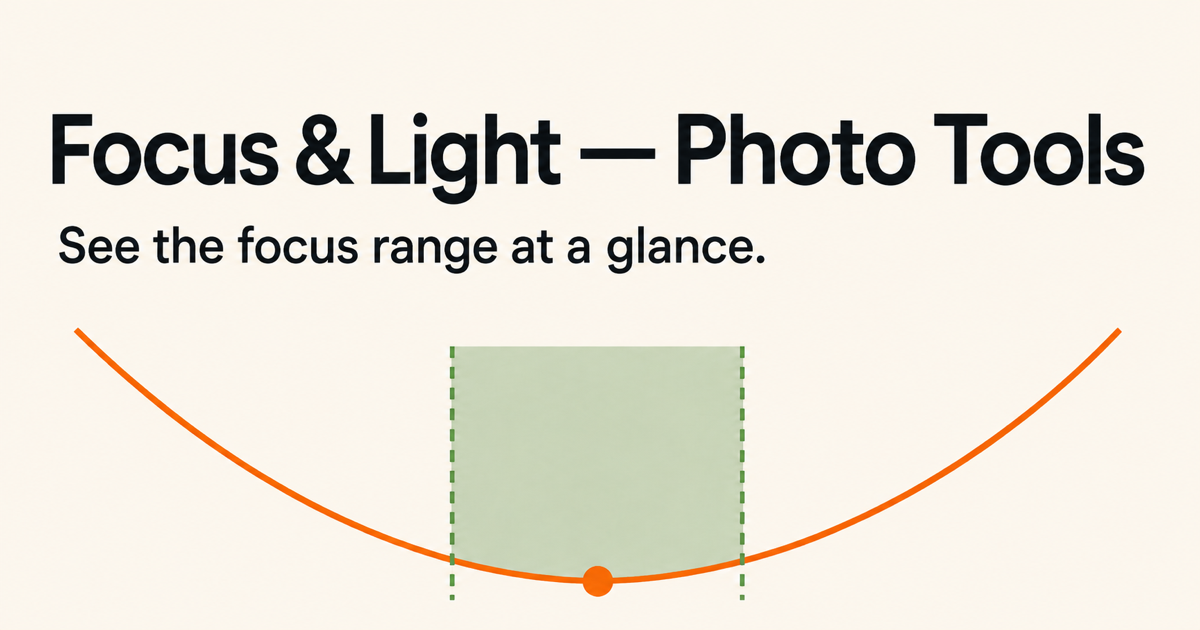
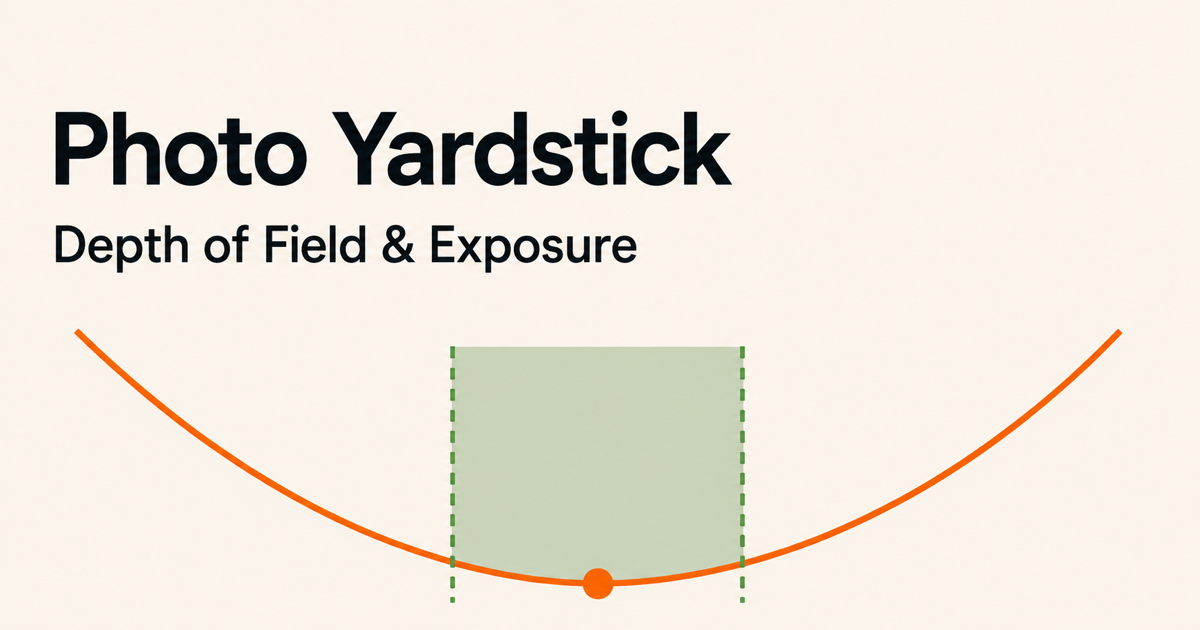
撮影のものさしの日英サイト名称と共有画像を反映

diff --git a/components/focus-map-story.tsx b/components/focus-map-story.tsx
@@ -42,7 +42,7 @@ const content = {
     originLabel: 'このアプリを作った理由',
     originTitle: '計算を終えて、写真に集中したかった。',
     originBody:
-      'ピント位置と絞りを先に決めておけば、撮影中に考えることを減らせます。ただ、そのたびに被写界深度を手計算するのは面倒でした。そこで、iPhoneですぐに範囲を確認できる、自分でも使いたい道具として「ピントと光 — 撮影計算」を作り始めました。',
+      'ピント位置と絞りを先に決めておけば、撮影中に考えることを減らせます。ただ、そのたびに被写界深度を手計算するのは面倒でした。そこで、iPhoneですぐに範囲を確認できる、自分でも使いたい道具として「撮影のものさし」を作り始めました。',
     sceneLabel: 'こんなときに',
     sceneTitle: '計算結果を見ながら、機材ごとの距離感をつかむ。',
     scenes: [
@@ -99,7 +99,7 @@ const content = {
     eyebrow: 'iPhone · iOS 17 or later · Preparing for release',
     title:
       'Spend less time calculating focus and more time taking photographs.',
-    lead: 'Choose a focus distance and aperture to see how much of the scene should appear acceptably sharp. Focus & Light — Photo Tools is designed for quick checks before shooting with manual-focus cameras and lenses.',
+    lead: 'Choose a focus distance and aperture to see how much of the scene should appear acceptably sharp. Photo Yardstick is designed for quick checks before shooting with manual-focus cameras and lenses.',
     state: 'Preparing for the App Store',
     privacy: 'Privacy',
     support: 'Support',
@@ -108,7 +108,7 @@ const content = {
     originTitle:
       'I wanted to finish the calculation and return to the photograph.',
     originBody:
-      'Setting focus and aperture in advance can remove decisions while shooting, but calculating depth of field each time was slow. I began Focus & Light — Photo Tools as a tool I wanted for myself: a quick way to check the range on an iPhone.',
+      'Setting focus and aperture in advance can remove decisions while shooting, but calculating depth of field each time was slow. I began Photo Yardstick as a tool I wanted for myself: a quick way to check the range on an iPhone.',
     sceneLabel: 'Useful moments',
     sceneTitle: 'Build a feel for focus distance with each camera and lens.',
     scenes: [
@@ -151,8 +151,7 @@ const content = {
       'Japanese and English',
     ],
     releaseLabel: 'Release status',
-    releaseTitle:
-      'Focus & Light — Photo Tools is still being prepared for the App Store.',
+    releaseTitle: 'Photo Yardstick is still being prepared for the App Store.',
     releaseBody:
       'Automated calculation and interface tests and build checks are in progress. Physical-device checks, including hands-on use and VoiceOver, remain separate, so this page does not present the app as already released.',
     limitsLabel: 'About the results',
@@ -200,6 +199,7 @@ export function FocusMapStory({ locale }: { locale: Locale }) {
             <div>
               <p>{text.eyebrow}</p>
               <strong>{featuredApp.name[locale]}</strong>
+              <p>{featuredApp.subtitle[locale]}</p>
             </div>
           </div>
           <h1>{text.title}</h1>
@@ -224,8 +224,8 @@ export function FocusMapStory({ locale }: { locale: Locale }) {
                 src={sitePath(`${featuredApp.imageDirectory}/${mainScreen}`)}
                 alt={
                   isEnglish
-                    ? 'Focus & Light — Photo Tools showing an acceptable focus range and blur curve'
-                    : '「ピントと光 — 撮影計算」で、合って見える範囲とぼけの曲線を表示している画面'
+                    ? 'Photo Yardstick showing an acceptable focus range and blur curve'
+                    : '「撮影のものさし」で、合って見える範囲とぼけの曲線を表示している画面'
                 }
                 width="1320"
                 height="2868"

diff --git a/components/info-page.tsx b/components/info-page.tsx
@@ -15,10 +15,10 @@ type InfoKind = 'privacy' | 'support';
 const info = {
   ja: {
     privacy: {
-      label: 'ピントと光 — 撮影計算のプライバシー',
+      label: '撮影のものさしのプライバシー',
       title: 'アプリがデータを勝手に送ることはありません。',
       intro:
-        '「ピントと光 — 撮影計算」本体は、個人情報、位置情報、写真、連絡先、識別子、利用状況、診断情報を収集しません。',
+        '「撮影のものさし」本体は、個人情報、位置情報、写真、連絡先、識別子、利用状況、診断情報を収集しません。',
       sections: [
         [
           'アプリからの通信',
@@ -56,10 +56,10 @@ const info = {
       date: '適用日: 初回リリース日',
     },
     support: {
-      label: 'ピントと光 — 撮影計算のサポート',
+      label: '撮影のものさしのサポート',
       title: '計算結果の見方と、できないこと。',
       intro:
-        '「ピントと光 — 撮影計算」の数値は、撮影前の判断を助けるための目安です。結果に影響する前提と、現在の計算に含まれないものをまとめています。',
+        '「撮影のものさし」の数値は、撮影前の判断を助けるための目安です。結果に影響する前提と、現在の計算に含まれないものをまとめています。',
       sections: [
         [
           'ピントが合って見える範囲',
@@ -82,10 +82,10 @@ const info = {
   },
   en: {
     privacy: {
-      label: 'Focus & Light — Photo Tools privacy',
+      label: 'Photo Yardstick privacy',
       title: 'The app does not send your data anywhere automatically.',
       intro:
-        'Focus & Light — Photo Tools does not collect personal information, location, photos, contacts, identifiers, usage data, or diagnostics.',
+        'Photo Yardstick does not collect personal information, location, photos, contacts, identifiers, usage data, or diagnostics.',
       sections: [
         [
           'Communication from the app',
@@ -123,10 +123,10 @@ const info = {
       date: 'Effective date: initial release date',
     },
     support: {
-      label: 'Focus & Light — Photo Tools support',
+      label: 'Photo Yardstick support',
       title: 'How to read the results, and what they do not cover.',
       intro:
-        'Focus & Light — Photo Tools results are guides for decisions before a photograph. This page summarizes the assumptions that affect the numbers and what is outside the current model.',
+        'Photo Yardstick results are guides for decisions before a photograph. This page summarizes the assumptions that affect the numbers and what is outside the current model.',
       sections: [
         [
           'The range that appears acceptably sharp',

diff --git a/components/feedback-page.tsx b/components/feedback-page.tsx
@@ -20,7 +20,7 @@ import {
 
 const content = {
   ja: {
-    label: 'ピントと光 — 撮影計算へのフィードバック',
+    label: '撮影のものさしへのフィードバック',
     title: (
       <>
         <span className="feedback-title-line">気づいたことを、</span>
@@ -29,7 +29,7 @@ const content = {
     ),
     intro:
       'この入口でアプリと表示言語は確定しています。アプリ名、言語、種類、端末、OSを選び直す必要はありません。',
-    back: 'ピントと光 — 撮影計算へ',
+    back: '撮影のものさしへ',
     safetyLabel: '送信前に',
     safetyTitle: '匿名で送れます。通常、個別の返信は行いません。',
     points: [
@@ -43,11 +43,11 @@ const content = {
       'Googleフォームを使用し、氏名やメールアドレスは収集しません。削除の依頼などプライバシーに関する連絡は、別のお問い合わせ窓口で扱います。匿名回答を確実に特定できない場合があります。AIによる整理を行う場合は、説明を更新し、必要な同意を得た範囲で行います。過去の回答を自動で流用しません。',
   },
   en: {
-    label: 'Feedback for Focus & Light — Photo Tools',
+    label: 'Feedback for Photo Yardstick',
     title: 'Share what you noticed in one free-text field.',
     intro:
       'This entry already identifies the app and display language. You do not need to re-enter the app name, language, category, device, or OS.',
-    back: 'Back to Focus & Light — Photo Tools',
+    back: 'Back to Photo Yardstick',
     safetyLabel: 'Before sending',
     safetyTitle:
       'Send anonymously. Individual replies are generally not provided.',

diff --git a/components/contact-page.tsx b/components/contact-page.tsx
@@ -21,7 +21,7 @@ const content = {
     intro:
       '事業上の連絡、サイト運営、プライバシー・データの扱いに関する問い合わせは、この窓口で扱います。アプリの不具合や機能要望は、各アプリのサポートから専用フィードバックへお進みください。',
     back: 'アプリ一覧へ',
-    appSupport: 'ピントと光 — 撮影計算のサポートへ',
+    appSupport: '撮影のものさしのサポートへ',
     safetyLabel: '入力する内容',
     safetyTitle: '本文は必須です。連絡先は返信を希望する場合だけ。',
     points: [
@@ -40,7 +40,7 @@ const content = {
     intro:
       'This contact route handles business matters, site administration, and questions about privacy or data handling. For app bugs or feature requests, open the app’s support page to find its feedback form.',
     back: 'Back to all apps',
-    appSupport: 'Support for Focus & Light — Photo Tools',
+    appSupport: 'Support for Photo Yardstick',
     safetyLabel: 'What to enter',
     safetyTitle:
       'A message is required. Contact details are optional for replies.',

diff --git a/lib/site.ts b/lib/site.ts
@@ -4,8 +4,12 @@ export type Locale = 'ja' | 'en';
 export const featuredApp = {
   slug: 'focus-exposure-calculator',
   name: {
-    ja: 'ピントと光 — 撮影計算',
-    en: 'Focus & Light — Photo Tools',
+    ja: '撮影のものさし',
+    en: 'Photo Yardstick',
+  },
+  subtitle: {
+    ja: 'ピントと露出を計算',
+    en: 'Depth of Field & Exposure',
   },
   imageDirectory: '/images/focus-exposure-calculator',
 } as const;

diff --git a/app-store/focus-map/README.md b/app-store/focus-map/README.md
@@ -1,24 +1,26 @@
-# ピントと光 — 撮影計算 / Focus & Light — Photo Tools: App Store公開準備
+# 撮影のものさし / Photo Yardstick: App Store公開準備
 
 本人の意思は[本人の意思の正本](/Users/minatosuzuki/work_local/アプリ管理/OWNER_INTENT.md)を参照する。公開用メールの現在方針は同正本に従い、過去の採否未定・任意提案を現在の本人判断にしない。
 
 このフォルダは、App Storeの公開表現・表示構成・素材計画を認知担当が整える入口です。公開URL、画像の状態、App Previewの撮影計画と既存正本を参照します。製品メタデータの既存正本は個別アプリ側の [AppStoreMetadata.ja-en.md](/Users/minatosuzuki/work_local/被写界深度計算ツール/Docs/Release/AppStoreMetadata.ja-en.md) に保持し、独立した入力原稿を二重に作りません。保存場所と編集担当を区別し、正本の変更前には [READMEの連携手順](../../README.md) でactive編集との競合を確認します。名称の決定、提出の採用値・外部gateは管理台帳を参照します。
 
-制作背景はアプリ管理側の `app_profiles/focus-map.md`、機能と画面は内部名Focus Mapのアプリ側にある現行仕様を参照します。公開文面は利用場面から始め、専門用語と開発工程を初見の入口へ置きません。ディレクトリ名、Bundle ID、素材名、過去のcommit記述は履歴と実装の識別子なので、公開名に合わせて一括置換しません。
+制作背景はアプリ管理側の `app_profiles/focus-map.md`、機能と画面はPhotoYardstickのアプリ側にある現行仕様を参照します。公開文面は利用場面から始め、専門用語と開発工程を初見の入口へ置きません。ディレクトリ名、素材名、過去のcommit記述は履歴と実装の識別子なので一括置換しません。Bundle IDは今回の本人の明示採用に従い更新します。
 
 ## 現在の状態
 
-- App Storeの公開名は、日本語 `ピントと光 — 撮影計算`、英語 `Focus & Light — Photo Tools` に確定。採用サブタイトルは日本語 `被写界深度と露出をすばやく確認`、英語 `Depth of Field & Exposure`、プロモーション用テキストは両言語とも空欄。認知側の `metadata.*.md` は正本参照と採用値の照合用抜粋だけにする。
+2026-09-05、本人が新名称とBundle IDを採用し、各所への反映を直接依頼した。日英サイト本文・参照原稿・共有画像をローカル更新した。本変更のpush・本番公開・実Forms改名・ASC入力は未実施。[今回の確認記録](site-name-reflection-2026-09-05.md)を参照する。以下の9月4日公開結果と8月31日素材は旧名当時の履歴である。
+
+- App Storeの公開名は、日本語 `撮影のものさし`、英語 `Photo Yardstick` に確定。採用サブタイトルは日本語 `ピントと露出を計算`、英語 `Depth of Field & Exposure`、プロモーション用テキストは両言語とも空欄。認知側の `metadata.*.md` は正本参照と採用値の照合用抜粋だけにする。
 - 日本語4枚・英語4枚のスクリーンショットは、Focus Mapの素材実装基準コミット`7ec79a1f906195bea31940fbbfdd321f24ca40b8`にあるDebug fixtureから2026-08-31に再撮影済み。8枚とも当時の形式検査と独立した全数原寸目視に合格した。旧名当時の証拠であり、改名後の最終binaryと照合済みの提出素材とは扱わない。
 - 日本語25.5秒・英語24.5秒のApp Preview候補も、同じ旧名当時のSimulator画面から実録画・検査済み。初回提出は静止画だけとし、動画候補は履歴として保持する。
 - Web用の旧名4画面はサイトUIから非表示とし、ファイルは無加工で保持する。改名後の実画面への差し替えは公開前確認に残す。
-- 新公開名とslugに対応したプライバシー、セルフサポート、専用Feedback、共通Contactをサイト側で更新し、2026-09-04にGitHub Pagesへ公開済み。新しい日英URLの表示と旧URLの転送なし404を確認した。実フォームの受付有効化は別の未完了ゲート。
+- 旧公開名と現行slugに対応したプライバシー、セルフサポート、専用Feedback、共通Contactをサイト側で更新し、2026-09-04にGitHub Pagesへ公開済み。新しい日英URLの表示と旧URLの転送なし404を確認した。実フォームの受付有効化は別の未完了ゲート。
 - アプリの不具合・困りごと・要望は各Supportを経由して専用Feedbackへ案内し、業務・運営・プライバシー請求・その他の返信が必要な連絡は共通Contactへ分離する。返信を伴うプライバシー請求のために新窓口は増やさない。専用Feedbackは匿名、入口でアプリと言語を確定し、大きな自由記述1欄だけにする。個別返信を通常運用にせず、有用な報告は概ね1か月以内に改善へ反映することを目標とするが、全件採用・期限内の修正や公開を保証しない。
 - Contactでは業務等の任意問い合わせへの返信を保証しない一方、法令に基づくプライバシー権利請求は適用法令に従って対応する。不要な個人情報、秘密、パスワード、認証コード、非公開共有リンクは禁止し、用件に必要な公開ページURLは許容する。専用Feedbackは匿名・URL禁止を維持する。
 - 実Googleフォーム4件の改修・設定照合は未完了。Feedback／Contactは既定で準備中とし、埋め込み・外部フォームリンクを出さず、現在は送信できないことを日英で明記する。フォーム経由の受付・返信可能は未完了。部分的な準備状況は [PROJECT_CONTEXT](../../PROJECT_CONTEXT.md#このサイト変更の外部ゲート) を参照する。
 - 専用Feedbackの自由記述1欄を標準とし、必須同意チェックボックス案は未採用。Googleフォーム送信で同意を得たい本人の希望と法的結論を分け、実フォームの説明・設定・適用要件を照合するまで受付フラグは `false`（未設定）に保つ。AIによる半自動整理は現在未稼働で、稼働中とは表示しない。回答は周期だけを理由に削除しないが、法令上の請求や誤送信された機微情報への必要な措置は別に扱う。
 - Supportはセルフヘルプ、専用Feedback、採用時だけ表示する共通公開サポートメールで構成する。公開メールの方針は[本人の意思の正本](/Users/minatosuzuki/work_local/アプリ管理/OWNER_INTENT.md)に従う。実値は未設定で、仮の連絡先は公開しない。
-- 価格は0円、初回配布地域は日本のみ、Bundle IDは`com.minatosuzuki.FocusMap`のままとする。
+- 価格は0円、初回配布地域は日本のみ、採用Bundle IDは`com.minatosuzuki.PhotoYardstick`とする。Apple側の登録・保存完了を意味しない。
 - 公開日は未確定。App Store Connectへの最終入力・提出は所有者が手動で行う。
 - App Store Connectへの素材登録、配布用署名、Validate App、TestFlight、提出は未実施。
 
@@ -62,7 +64,7 @@
 
 ## 素材の所在
 
-実素材の正本はFocus Map側に置き、このリポジトリへ複製しません。
+提出用実素材の正本はPhotoYardstick側に置き、Web用の派生素材と区別します。
 
 - スクリーンショット: `Docs/Release/AppStoreSubmission/Screenshots/{ja,en}/`
 - App Preview候補: `Docs/Release/AppStoreSubmission/AppPreviews/{ja,en}/`

diff --git a/AGENTS.md b/AGENTS.md
@@ -6,7 +6,7 @@
 - 制作目的・収益化・実名と連絡先の公開範囲は[本人の意思の正本](/Users/minatosuzuki/work_local/アプリ管理/OWNER_INTENT.md)の現在値を使う。サイトの文章や外部の制度説明を本人の意思として記録しない。
 - 最終的には現在までに制作した全アプリを扱う。数を固定せず、新しいアプリが増えたら一覧へ追加する。
 - アプリ一覧 `/apps/`（英語 `/apps/en/`）は全アプリの入口とし、一つのアプリだけをサイト全体のように見せない。ヘッダーへアプリ名を列挙せず、一覧から探せる構造にする。
-- 最初の完成例の公開名は、日本語 `ピントと光 — 撮影計算`、英語 `Focus & Light — Photo Tools` とする。内部の履歴、素材名、Bundle IDでは従来の `Focus Map` を維持してよく、公開面だけを無差別な一括置換で壊さない。ほかのアプリは、公開可能な機能と現行画面が確定するまで名前と準備状況だけに留め、推測で説明を増やさない。
+- 撮影計算アプリの採用名・サブタイトル・Bundle IDは管理のOWNER_INTENTと本体の現行metadataを参照する。現行公開面へ反映し、内部履歴・素材名・安定URL識別子を無差別な一括置換で壊さない。ほかのアプリは、公開可能な機能と現行画面が確定するまで名前と準備状況だけに留め、推測で説明を増やさない。
 - 担当は[担当境界の正本](/Users/minatosuzuki/work_local/アプリ開発共通事項/README.md#関連projectとの責任境界)、命名は[本人の命名方針](/Users/minatosuzuki/work_local/アプリ管理/OWNER_INTENT.md#全アプリ共通の命名方針)に従う。公開表現・構成・素材計画はこのrepoの担当とし、機能事実・実画面の証拠は各アプリの正本へ戻る。既存原稿・素材の保存場所と担当は区別し、別repoの正本を変更する時は[project間の連携手順](/Users/minatosuzuki/work_local/アプリ開発共通事項/スキル/app-design-philosophy/references/project-coordination.md)でactive編集との競合を先に確認する。原稿の並行正本を作らない。
 - 共通する制作姿勢は「使う人の判断を減らす」「普段は浅く、必要時だけ深く」「限界や未確認点を隠さない」。これを誇大な売り文句ではなく、ページ構造と操作体験で示す。
 - 一般向けの見出しは利用場面と得られる変化から始める。APEX、錯乱円、テスト件数など、説明のない専門用語や開発工程を大見出しにしない。
@@ -26,10 +26,10 @@
 - Feedback原文は周期だけを理由に削除せず、本人の定期的な原文確認・個別返信を通常運用にしない。既存の安全な処理基盤でAIが半自動整理して改善へ回す構想と、現在そのAIが稼働している証拠がないことを分ける。Googleフォーム送信を同意とみなしたい本人の希望は法的結論と分け、追加チェックを既定にせず、受付開始前に実際の説明・設定・適用要件を照合する。法令上の請求や誤送信された機微情報への必要な措置は妨げない。
 - 実Googleフォーム4件（Feedback／Contact各日英）の改修、回答者下書き自動保存の無効化、設定照合後だけ、対応する `NEXT_PUBLIC_APP_FEEDBACK_READY` / `NEXT_PUBLIC_CONTACT_READY` を文字列 `true` で有効化する。既定未設定では埋め込み・外部フォームリンクを表示せず、準備中で送信できないことを日英で明記し、受付・返信可能を完了扱いしない。Googleの下書き保存・通常Web処理と、開発者への回答送信は分けて説明する。
 
-## ピントと光 — 撮影計算の現在の公開境界
+## 撮影計算アプリの現在の公開境界
 
 - iPhone / iOS 17以降。日本語・英語対応。
-- 英語公開名は `Focus & Light — Photo Tools`、公開slugは `focus-exposure-calculator`。日本語・英語の紹介、Support、Privacy、Feedbackで同じslugを使い、旧 `focus-map` 公開URLはリダイレクトなしで削除する。
+- 日英公開名は上記の正本に従う。公開slugは `focus-exposure-calculator`。日本語・英語の紹介、Support、Privacy、Feedbackで同じslugを使い、旧 `focus-map` 公開URLはリダイレクトなしで削除する。
 - 被写界深度、連続的なボケ量、撮像面比較、APEX露出、蛇腹伸長の計算を扱う。
 - アカウント、広告、解析SDK、追跡はない。計算値と設定は端末内に保存し、自動送信しない。利用者が選んだ場合だけ外部のフィードバックページを開く。
 - 2026-08-31のFocus Map素材実装基準コミット`7ec79a1f906195bea31940fbbfdd321f24ca40b8`で、日英スクリーンショット8枚と日英App Preview候補を現行Simulator画面から制作し、形式検査と独立目視を完了した。実素材と最新監査の正本はFocus Map側に置き、現在のHEADは作業時にlive確認する。

diff --git a/app-store/focus-map/site-name-reflection-2026-09-05.md b/app-store/focus-map/site-name-reflection-2026-09-05.md
@@ -1,0 +1,30 @@
+# 撮影のものさし / Photo Yardstick の名称反映
+
+採用日: 2026-09-05。再開・確認完了: 2026-09-07。
+
+## 反映内容
+
+本人の採用名・サブタイトル・Bundle IDは[管理のOWNER_INTENT](/Users/minatosuzuki/work_local/アプリ管理/OWNER_INTENT.md#個別アプリの公開名--focusmap)、製品入力原稿は[本体metadata](/Users/minatosuzuki/work_local/被写界深度計算ツール/Docs/Release/AppStoreMetadata.ja-en.md)を正本とする。
+
+日英の一覧、紹介、Support、Privacy、Feedback、Contact内のアプリ参照、検索・共有metadata、共有画像をローカルで更新した。日本語は「撮影のものさし」「ピントと露出を計算」、英語は「Photo Yardstick」「Depth of Field & Exposure」。紹介冒頭にもサブタイトルを併記した。認知側のApp Store原稿は正本参照と照合用抜粋を更新し、採用日と内部名の旧説明も訂正した。
+
+安定slug `focus-exposure-calculator`、`/apps/` 配下の日英URL、内部component名、検証済みの過去素材・監査は維持した。Bundle ID `com.minatosuzuki.PhotoYardstick` の本体反映と検証は[本体の改名記録](/Users/minatosuzuki/work_local/被写界深度計算ツール/Docs/Release/2026-09-05-photo-yardstick-rename.md)を参照する。
+
+## 2026-09-07の確認
+
+- `npm test`: 18/18成功。名称・サブタイトル・URLの整合を含む。
+- `npm run lint`、`git diff --check`: 成功。
+- `verify:pages`: 28/28必須ページ、71公開route、142 HTML、1937検査中2件失敗。失敗は `/apps/tsutawaru-moji/` と英語対の `unverified app imagery present` だけ。9月5日に改名前HEADでも確認された別件のアイコンと検査期待値の不一致で、今回修正しない。撮影計算アプリの名称・導線・metadata検査に失敗はない。
+- 静的buildは9月5日の継続作業で成功済みとして引き継いだ。9月7日は名称変更後に生成された既存 `dist/client/` を使用してローカル表示を確認し、build成功を新たな実行証拠へ読み替えない。
+- 紹介ページを専用headless Chromeで日英それぞれ390×844pxと1440×1000pxの計4画面を撮影・目視。名称とサブタイトルの欠け・重なりなし。両言語の390px幅でdocumentのscrollWidthも390px。日本語から英語へのLanguage切替は対応ページへ到達した。確認画像はGit対象外の `output/playwright/rename-{ja,en}-{mobile,desktop}.png`。
+- 共有画像 `public/images/focus-exposure-calculator/og-{ja,en}.png` は各1200×630px。両画像を個別に目視し、正しい名称・サブタイトル、文字欠けなし、余白を確認。静的出力の画像とbyte単位で一致した。
+
+静的成果物・ローカルbrowserの証拠であり、実機、提出用binary、外部公開、実Forms、App Store Connectの確認ではない。今回の確認用browserとローカルserverは終了した。
+
+## 公開と素材の残件
+
+今回のpush・本番公開・実Forms改名・Apple登録／ASC保存は未実施。ローカルmainにある別アプリの未公開変更を改名として一括公開しない。公開サイト読取は前回の `not safe to open (non-retryable error)` 以後、別経路を含め再試行していない。
+
+旧名時点のスクリーンショット・動画は保持し、サイトの旧画面画像は非表示を維持した。本体のUI撮影が未完了のため、改名後の実画面への差し替え・最終binary照合は残件。初回提出は静止画のみとする既存方針を維持する。
+
+今回の知見は個別project固有の名称反映・証拠境界として本記録へ保存した。共通工程への新原則追加は不要で、[既存の名称・アイコン制作手順](/Users/minatosuzuki/work_local/アプリ開発共通事項/開発標準/名称とアイコンの制作手順.md)と[担当境界](/Users/minatosuzuki/work_local/アプリ開発共通事項/README.md#関連projectとの責任境界)に包含される。

diff --git a/PROJECT_CONTEXT.md b/PROJECT_CONTEXT.md
@@ -17,7 +17,7 @@
 ## 現在の公開順序
 
 1. アプリ一覧では全アプリを同じ一覧規則で扱い、詳しい紹介があるものだけ次へ進める。
-2. `ピントと光 — 撮影計算`（英語: `Focus & Light — Photo Tools`）の公式ページ、プライバシー、サポート、App Store素材を最初の完成例として仕上げる。公開slugは `focus-exposure-calculator` に統一し、内部履歴と素材では従来の `Focus Map` を必要に応じて維持する。
+2. `撮影のものさし`（英語: `Photo Yardstick`）の公式ページ、プライバシー、サポート、App Store素材を最初の完成例として仕上げる。公開slugは `focus-exposure-calculator` に統一し、内部履歴と素材では従来の `Focus Map` を必要に応じて維持する。
 3. `伝わる文字 / Tsutawaru Moji` は本体の確定公開原稿から日英の紹介・Support・Privacy・Feedbackを整備し、2026-09-05に実受付を無効のまま本番公開した。[検証と公開条件](app-store/tsutawaru-moji/site-verification-2026-09-05.md)を参照する。
 4. `道の記録`（英語名・内部名: `LocationLogger`、補足: `通った道を地図で見返す`）は本体の現在のApp Store原稿・Support・Privacyを内容正本として、日英の紹介・Support・Privacy・専用Feedbackをローカル整備する。Feedbackは専用の日英URLと受付フラグがすべて検証済みの場合だけ表示し、既定では停止する。配信地域は全アプリ共通の既定に従い日本のみ。[ローカル検証と公開前条件](app-store/location-logger/site-verification-2026-09-05.md)を参照する。
 5. それ以外のアプリは名前と準備中表示だけを置く。
@@ -97,3 +97,9 @@
 ## 伝わる文字のタイトル・サブタイトル確定（2026-09-05）
 
 本人確定の日本語タイトル「伝わる文字」、サブタイトル「話した言葉を、大きく見やすく」を日本語紹介ページへ適用。英語表記は維持。ローカル反映で本変更のpush・本番公開は未実施。意思の正本は管理OWNER_INTENT、入力原稿は本体APP_STORE_RELEASE。
+
+## 撮影のものさし / Photo Yardstickへの名称反映（2026-09-05）
+
+本人の採用名に合わせ、日英の紹介・Support・Privacy・Feedback・Contact内の参照、サイト一覧・検索metadata・共有画像、App Store採用値の参照原稿をローカル更新した。タイトル・サブタイトル・Bundle IDの意思正本は管理OWNER_INTENT、入力内容正本は本体metadataを参照する。今回の本番公開・実Forms改名・Apple側登録とASC保存は未実施。安定slug `focus-exposure-calculator` と日英の `/apps/` 階層を保持した。
+
+旧画面・動画は歴史証拠として保持し、改名後の提出用素材へ読み替えない。今回の実装・画像・確認結果は [名称反映記録](app-store/focus-map/site-name-reflection-2026-09-05.md)を参照する。ローカルmainにある別件の未公開変更は保持し、今回の改名として一括公開しない。

diff --git a/README.md b/README.md
@@ -2,7 +2,7 @@
 
 アプリの公開・運営に関する希望、個人情報の公開範囲、公開用メールの方針は[本人の意思の正本](/Users/minatosuzuki/work_local/アプリ管理/OWNER_INTENT.md)に集約しています。 判断前・新しい意思を受けた時・作業終了前の扱いは[参照・更新手順](/Users/minatosuzuki/work_local/アプリ開発共通事項/スキル/app-design-philosophy/SKILL.md#本人の意思を参照更新する)を使います。
 
-個人制作アプリを一覧から見つけ、内容を誤解せずに詳しい紹介やApp Storeへ進めるための日英対応サイトです。`ピントと光 — 撮影計算`（英語: `Focus & Light — Photo Tools`）は最初の詳しい紹介例ですが、`/apps/` の一覧は全アプリを同じ規則で案内します。
+個人制作アプリを一覧から見つけ、内容を誤解せずに詳しい紹介やApp Storeへ進めるための日英対応サイトです。`撮影のものさし`（英語: `Photo Yardstick`）は最初の詳しい紹介例ですが、`/apps/` の一覧は全アプリを同じ規則で案内します。
 
 担当は[担当境界の正本](/Users/minatosuzuki/work_local/アプリ開発共通事項/README.md#関連projectとの責任境界)、命名は[本人の命名方針](/Users/minatosuzuki/work_local/アプリ管理/OWNER_INTENT.md#全アプリ共通の命名方針)に従います。このrepoはWebサイトとApp Storeの公開表現・表示構成・素材計画を担当します。機能事実・実画面の証拠は各アプリの正本を参照し、提出の採用値・外部gateは管理台帳へ照合します。
 
@@ -10,7 +10,7 @@
 
 ## 現在のサイト構成
 
-- 全アプリを同じ大きさで案内する `/apps/` の一覧と、`ピントと光 — 撮影計算`の詳細ページ
+- 全アプリを同じ大きさで案内する `/apps/` の一覧と、`撮影のものさし`の詳細ページ
 - 日本語・英語
 - プライバシーポリシー
 - サポートと計算の前提

diff --git a/app-store/focus-map/metadata.ja.md b/app-store/focus-map/metadata.ja.md
@@ -1,11 +1,11 @@
-# ピントと光 — 撮影計算: 日本語メタデータ参照
+# 撮影のものさし: 日本語メタデータ参照
 
 製品メタデータの内容正本は、個別アプリ側の [AppStoreMetadata.ja-en.md（日本語）](/Users/minatosuzuki/work_local/被写界深度計算ツール/Docs/Release/AppStoreMetadata.ja-en.md#日本語) です。説明、キーワード、更新情報、App Review Notesは正本だけで保守し、このファイルを独立した入力原稿にしません。
 
 ## 現在の採用値（照合用）
 
-- 名前: `ピントと光 — 撮影計算`
-- サブタイトル: `被写界深度と露出をすばやく確認`
+- 名前: `撮影のものさし`
+- サブタイトル: `ピントと露出を計算`
 - プロモーション用テキスト: 空欄（入力しない）
 
-2026-09-04の採用値です。提出時は個別アプリ側の正本と実際のApp Store Connect入力値を照合します。公開サイトとアプリへ渡すURLは、このフォルダの [README.md](README.md#app-storeとアプリへ渡すurl) を参照します。
+2026-09-05の名称・サブタイトル採用値です。提出時は個別アプリ側の正本と実際のApp Store Connect入力値を照合します。公開サイトとアプリへ渡すURLは、このフォルダの [README.md](README.md#app-storeとアプリへ渡すurl) を参照します。
